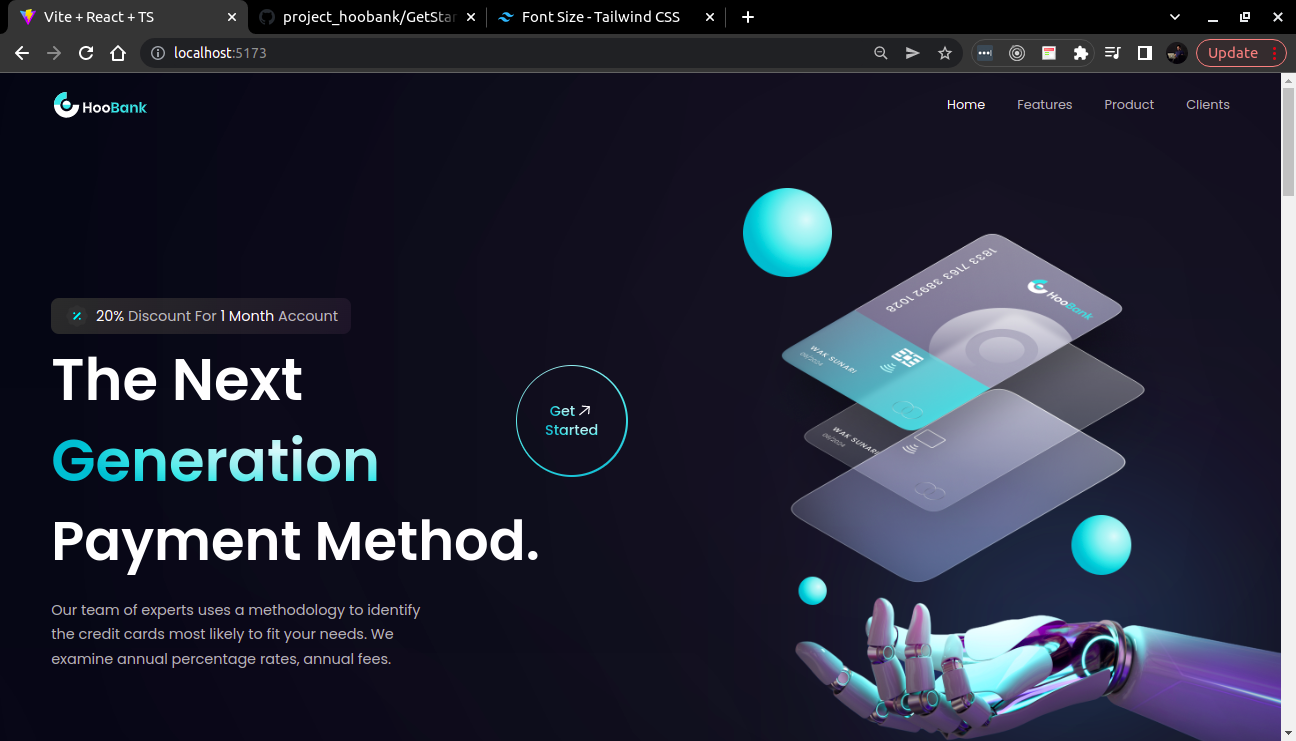
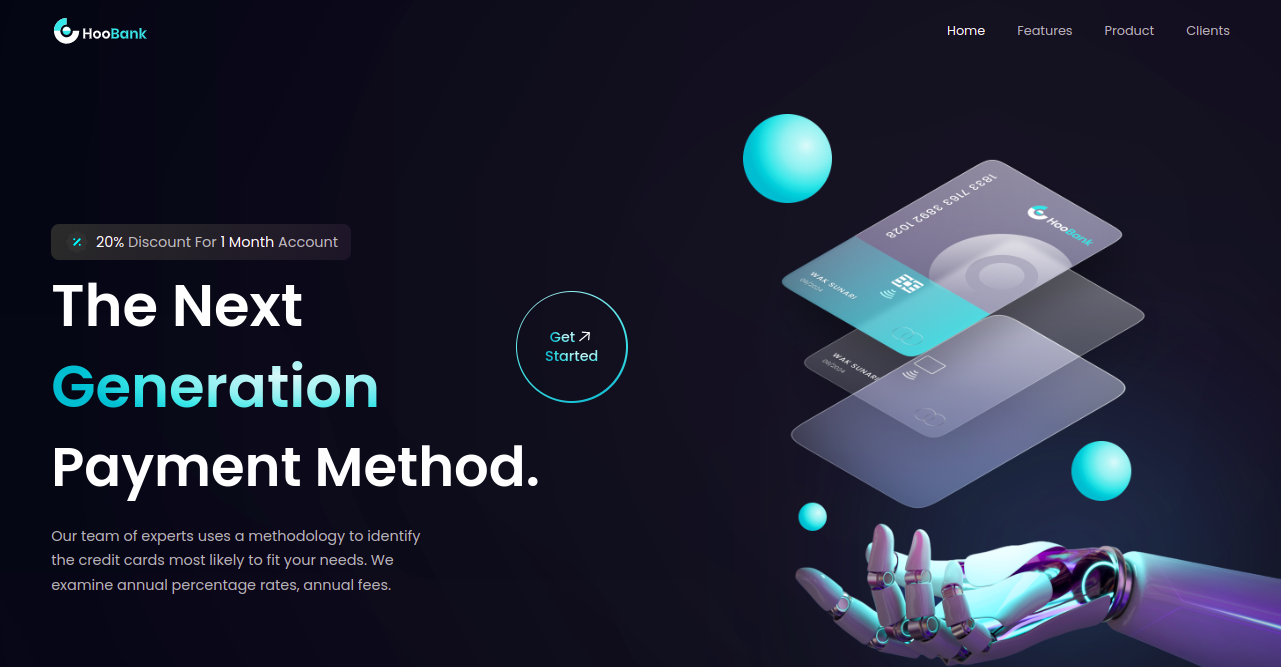
Updated imgas

Changed region(s): [[0.0, 0.0, 1.0, 1.0], [0.0312, 0.3298, 0.4372, 0.8996], [0.4059, 0.4798, 0.4996, 0.6597]]

diff --git a/README.md b/README.md
@@ -11,7 +11,11 @@ Built using:
 
 ### [Figma Design]()
 
-![HooBank](https://i.ibb.co/BK1Hn0x/Screenshot-2022-08-08-at-4-05-48-PM.png)
+![HooBank](https://github.com/Majd-sufian/HooBank/blob/main/src/assets/hooBank.png?raw=true)
+
+![HooBank](https://github.com/Majd-sufian/HooBank/blob/main/src/assets/hooBank2.png?raw=true)
+
+![HooBank](https://github.com/Majd-sufian/HooBank/blob/main/src/assets/hooBank3.png?raw=true)
 
 ## Scripts:
 
